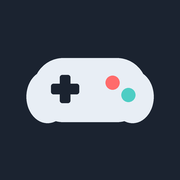
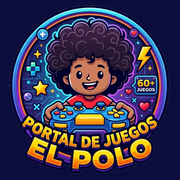
Add files via upload

diff --git a/sw.js b/sw.js
@@ -11,10 +11,10 @@
 // Subir VERSION fuerza a todos a descargar todo de nuevo y borra las copias viejas (juegos-vN).
 // Versión 180: se agregó «regadera» (Regadera: jardín circular con una regadera que gira cada 10 s; las plantas regadas salen como soldados contra arañas; por ahora solo Modo libre con 5 dificultades, Niveles y Mapa sin niveles todavía; en la zona «Juegos en desarrollo», sin imagen de tarjeta todavía).
 // Versión 179: «granjafeliz» con la pestaña «Animales» en la ventana del almacén (vender animales al 50 %, elegir cuál y cuántos); no hay archivos nuevos en la lista sin internet. Versión 178: «granjafeliz» con el almacenamiento cerrado (mejora 4 del almacén a $12,000, oso enjaulado a $100, la ventana «Enviar productos» explica por qué algo no cabe y el rótulo del camión muestra peso/capacidad); no hay archivos nuevos en la lista sin internet. Versión 177: «granjafeliz» con el almacén y el camión convertidos de las cajas de Farm Frenzy 1 a puntos (espacio en el almacén y peso en el camión por producto, caja = 30; camión 60 a 210 con los viajes de la guía de 20 a 4 s; almacén 100 a 10,000); no hay archivos nuevos en la lista sin internet (prueba-almacen-camion-granjafeliz.mjs es solo para consola). Versión 176: «granjafeliz» con tutorial guiado en los niveles 1 a 3 (flechas rojas y pasos que avanzan cuando el jugador hace lo que se pide; tutorial-granjafeliz.js entra a la lista de archivos sin internet) y se agrega a esa lista salida-granjafeliz.js (condición de derrota), que el juego ya importaba y faltaba. Versión 175: «granjafeliz» con barra de vida de 20 s en los animales (hambre a los 12 s, comen 5 s, mueren a los 20 s), huevos cada 20 s y ventana «Enviar productos» del almacén (panel-almacen-granjafeliz.js entra a la lista de archivos sin internet). Versión 174: agrega compartido/almacen.js (copias de seguridad). Versión 173: instalación más segura (si la red falla a medias NO reemplaza la copia buena anterior, descarga de 8 en 8 y avisa en consola de los archivos que no existen) y, si el servidor responde con error 5xx, usa la copia guardada.
-// Última versión: 183 = se agregó «ciudadzombi» (Ciudad Zombi: ciudad vista en 2D desde arriba de 15×15 a 100×100 manzanas con 20 000 a 100 000 ciudadanos y un límite de 150 000 mobs; por ahora solo el menú principal estándar con ♾ Modo libre —tamaño de ciudad, cantidad de ciudadanos y 5 dificultades—, Niveles y Mapa estándar sin niveles todavía, y el núcleo de los mobs en logica-ciudadzombi.js, que entra a la lista de archivos sin internet; prueba-ciudadzombi.mjs es solo para consola; en la zona «Juegos en desarrollo», sin imagen de tarjeta todavía).
+// Última versión: 184 = ícono nuevo de la app (logo «Portal de Juegos El Polo»: iconos/icono-maskable-512.png entra a la lista sin internet; manifest con nombre y colores nuevos). Antes: 183 = se agregó «ciudadzombi» (Ciudad Zombi: ciudad vista en 2D desde arriba de 15×15 a 100×100 manzanas con 20 000 a 100 000 ciudadanos y un límite de 150 000 mobs; por ahora solo el menú principal estándar con ♾ Modo libre —tamaño de ciudad, cantidad de ciudadanos y 5 dificultades—, Niveles y Mapa estándar sin niveles todavía, y el núcleo de los mobs en logica-ciudadzombi.js, que entra a la lista de archivos sin internet; prueba-ciudadzombi.mjs es solo para consola; en la zona «Juegos en desarrollo», sin imagen de tarjeta todavía).
 // Versión 182 = se agregó «explotacolores» (Explota colores: tablero de 10×15 donde se tocan grupos de 3 o más bloques del mismo color; rondas de 60 s, Modo libre con 5 dificultades; Niveles y Mapa sin niveles todavía; en la zona «Juegos en desarrollo», sin imagen de tarjeta todavía).
 // Versión 181 = «burbujas» con el menú principal estándar (♾ Modo libre con las 5 dificultades desplegables, 🪜 Niveles, 🗺 Mapa, 🚪 Salir y 👤 Iniciar sesión), mapa estándar de 22 600 niveles fijos (100 por estado y por país, reparto de dificultad estándar), «Siguiente nivel ▶» sobre el tablero y progreso unificado (burbujas_progreso_v1); las reglas pasan a logica-burbujas.js (en la lista de archivos sin internet); bot-burbujas.mjs es solo para consola. Antes: 172 = «granjafeliz»: Modo libre con dos modos (Juego original / Mod de Polo), pantalla de ajustes (dificultad, tamaño de granja, dinero de pruebas) y escena con 3 tamaños; escena-granjafeliz.js entra a la lista de archivos sin internet. 171 = se agregó «granjafeliz» (Granja feliz, estilo Farm Frenzy, solo horizontal: menú principal estándar con ♾ Modo libre de 5 dificultades por construir, Niveles y Mapa estándar de 22 600 niveles; solo existe el nivel 1 con gallinas y huevos; estrellas por tiempo y monedas de 15 a 45; datos-granjafeliz.js y economia-granjafeliz.js en la lista de archivos sin internet; en la zona «Juegos en desarrollo», sin imagen de tarjeta todavía). Antes: 170 = se agregó «billar» (Billar: por ahora solo el menú principal estándar con ♾ Modo libre de 5 dificultades, Niveles y Mapa estándar de 22 600 niveles por crear, y el sistema de estrellas —1 a 3 por nivel— y monedas —15, 30 o 45 por nivel, solo se paga la mejora—; economia-billar.js en la lista de archivos sin internet; en la zona «Juegos en desarrollo», sin imagen de tarjeta todavía). Antes: 169 = «slither» con sus 22 600 niveles (100 por estado de México y por país; bots Fácil/Normal/Difícil y 3 tamaños de mapa repartidos 50/40/10 % al inicio hasta 25/35/40 % al final; metas siempre de puntos calibradas para que todos se puedan pasar; niveles-slither.js en la lista de archivos sin internet; verificar-slither.mjs y package.json son solo para consola). Antes: 168 = «polocubos» con tablero inicial en patrones (peines con pasillos de cuadros a una pared de cerrarse, comprobados con un bot de backtracking), premios por cerrar cuadros con 1, 2 o 3 paredes, cubos aleatorios, 15 líneas iniciales y la primera tanda automática de 50 cubos (patrones-polocubos.js y solver-polocubos.js en la lista de archivos sin internet). Antes: 167 = se agregó «polocubos» (cuadritos de libreta: Modo libre solo o contra un bot, hojas de 12×12 a 500×500, 100 a 500 puntos iniciales, y mapa estándar de 22 600 niveles por crear; logica-polocubos.js e ia-polocubos.js en la lista de archivos sin internet; en la zona «Juegos en desarrollo», sin imagen de tarjeta todavía). Antes: 166 = «serpiente» con los 7 tipos de nivel y su reparto (tipos-nivel-serpiente.js en la lista de archivos sin internet; solo bases, todavía sin niveles). Antes: 165 = nuevo «compartido/dificultad-niveles.js» (reparto estándar de dificultad de los niveles del mapa: 50/40/10 % al principio y 25/40/35 % al final, progresivo; sección 8 de ESTANDARES-juegos.md). Antes: 164 = se agregó «serpiente» (Snake: por ahora solo el menú principal estándar con ♾ Partida libre de 5 dificultades y tableros de 6×10 a 16×20, Niveles y Mapa estándar de 22 600 niveles por crear; en la zona «Juegos en desarrollo», sin imagen de tarjeta todavía). Antes: 163 = se reunieron los cambios de varias líneas: vuelven «atasco» y «conectar» (que se habían perdido), «buscapalabras» suma economia-buscapalabras.js, y siguen «torrepasteles» y «batallanaval» (con logica.js). Antes: 162 = «batallanaval» con estrellas (★ ganar, ★★ y ★★★ por precisión y flota conservada) y monedas por nivel, boosts (🔍 revelar ubicación 100, 🛡 doble defensa 100, 👁 revelar todo 1 000) con escudos que el bot reconoce y reataca, y el 25 % exacto de los 22 600 niveles con escudos del bot (logica-batallanaval.js); progreso sincronizado con la cuenta. Antes: 161 = se agregó «batallanaval» (Batalla naval: por ahora solo el menú principal con ♾ Partida libre de 5 dificultades y tableros de 15×15 a 50×50 sin límite de tiradas ni de tiempo, y mapa estándar de 22 600 niveles por crear; compartido/mapa-niveles.js con la opción botonesAntes; en la zona «Juegos en desarrollo», sin imagen de tarjeta todavía). Antes: 160 = se agregó «torrepasteles» (Torre de pasteles, estilo apilar pasteles de Talking Angela: menú principal con Partida libre de 5 dificultades y mapa estándar de 22 600 niveles por crear, y sistema de estrellas —3 doradas y 3 moradas ocultas—, monedas —15 a 40, una sola vez por nivel— y boosts; logica-torrepasteles.js en la lista de archivos sin internet; en la zona «Juegos en desarrollo», sin imagen de tarjeta todavía; se saltan 158 y 159 porque esos números ya se usaron en otras copias del archivo). Antes (otra línea de cambios): 158 = se agregó «conectar» (Conecta los puntos: por ahora solo el menú principal con Partida libre de 5 dificultades y tableros de 5×5 a 10×10, Niveles sin niveles todavía y Mapa estándar de 22 600 niveles por crear; en la zona «Juegos en desarrollo», sin imagen de tarjeta todavía). Antes: 157 = se agregó «atasco» (carro rojo que debe salir de un estacionamiento lleno de carros grises; por ahora solo el menú principal con Modo libre: 5 dificultades y tableros de 4×4 a 13×13; en la zona «Juegos en desarrollo», sin imagen de tarjeta todavía). Antes: 157 = «buscapalabras» con menú principal (mapa de México y mundo, 22 600 niveles) y partida libre (5 dificultades, tableros de 8×8 a 20×20); «compartido/mapa-niveles.js» ahora admite botonesAntes. Antes: 156 = «ataqueglobal» con menú circular al tocar un país propio (expandir, misil nivel 1, investigar) y botones de ataque (apuntar, disparar, destruir). Antes: 155 = «slither» con menú principal estándar (mapa de México con agua y mundo, 22 600 niveles por crear: 100 por estado y por país; botón ♾ Juego libre con el modo de siempre) y bolitas doradas raras que valen 10 veces más; 154 = se agregó «naves» (enemigos en manada y oleadas contra una nave que dispara sola: mapa de México con 320 niveles comprobados con bots de backtracking, 50 tiers de enemigos y 50 armas en el Taller; en la zona «Juegos en desarrollo», sin imagen de tarjeta todavía); 153 = se agregó «spider» (Solitario Spider: 5 dificultades, modo libre, mapa de México y mundo y 5 niveles Fáciles comprobados con un bot de backtracking; en la zona «Juegos en desarrollo», sin imagen de tarjeta todavía); 152 = se agregaron «lanzapajaros», «ranagolosa», «dos», «flechas», «navepixeles» y «ataqueglobal» (los seis en la zona «Juegos en desarrollo», sin imagen de tarjeta todavía); 151 = «piano» pasa a la zona «Juegos» (terminado): menú principal con «Niveles» (mapa estándar, 30 niveles por estado y por país, todavía sin niveles) y «Canciones» (con favoritas ⭐ junto a «Con MIDI» y «Sin MIDI»), sin límite de tiempo con récords a 1, 2 y 3 minutos por canción, canciones agudas una octava más graves, y melodias-piano.js y niveles-piano.js en la lista de archivos sin internet; 150 = se agregó «saltanubes» (sube saltando por filas de 4 y 5 plataformas: tierra y nubes, monedas, cohete de la tienda y monstruos), «rubik» y «slither» pasan a verse en el portal (juegos.js), y «estacionamiento» cambia a vista 2D desde arriba; 149 = «piano» con sonido ligero (1 oscilador por nota, sin reverberación, máximo 4 notas a la vez) y audio desbloqueado con el primer toque (arregla el sonido que se saturaba o se perdía en celulares modestos); 148 = «gominolas» con el mapa de niveles estándar (compartido/mapa-niveles.js: 100 niveles por estado de México y por país, 22 600 en total), «🎮 Juegos» + «☰ Pausa» y fondo de madera; 147 = se agregó «slither» (serpientes estilo Slither.io, con bots, turbo y comida al morir); 146 = «agario» pasa a la zona «Juegos» (cuarto juego terminado); 145 = «agario» con bolas azules brillantes (sueltan 200 puntitos), portales de un solo uso a un punto seguro del mapa, bots que persiguen menos tiempo y se dividen para alcanzar presas chicas; 144 = «supervivencia» con mapa de 35×35 y recursos (piedras, fibra, bayas, árboles con hacha, vultos con pico); 143 = «buscaminas» pasa a la zona «Juegos» (tercer juego terminado), con zoom en tableros grandes y 100 niveles distintos por estado y país; 142 = «supervivencia» nuevo (mapa isométrico de 50×50 con piso, árboles y personaje que camina); 141 = «supermercado» con modo niveles (botón «Niveles» → mapa estándar, 10 niveles por estado y por país; ya está el nivel 1 en niveles-supermercado.js); 140 = «supermercado» con accesos gratis al patio (🚪 en la computadora, pestaña 🛠) entre las estanterías de cada ampliación; 139 = «supermercado» con la computadora de mejoras en 4 pestañas (personales con velocidad al caminar, empleados con su emoji de trabajador y producto, estanterías con 5 niveles de +5 espacios, y lo demás); 138 = «supermercado» con menú de inicio (Nueva partida / Continuar / Niveles) y 10 partidas guardadas en el aparato (autoguardado, ☰ Pausa → 💾 Guardar); 137 = «supermercado» con la mesa de la computadora pegada al muro de la izquierda y un bote de basura que pregunta si tiras lo que cargas; 136 = «supermercado»: los empleados que llevan varios productos sueltan todo antes de volver por más; 135 = «supermercado» con la computadora de mejoras sobre un escritorio, botones cuadrados tipo aplicación y ℹ Info en ☰ Pausa; 134 = «supermercado» en vista isométrica con calle alrededor, granja (huevo, leche, pollo, res y tocino), botón ⏩ de velocidad (x1 a x8), «🎮 Juegos» y «☰ Pausa» estándar, chip de monedas dorado y fondo de madera clara/oscura; 133 = «paperio» con los niveles de los estados jugables (progreso en orden, bonos que se abren al pasar el nivel), «🎮 Juegos» y «☰ Pausa» estándar, chip de monedas dorado; mapa.js ahora es paperio-mapa.js; 132 = «zuma» con el mapa de niveles estándar (México con agua, un estado de 10 niveles; compartido/mapa-niveles.js, etapas-mapa.js y geografia-mapa.js), botón «🎮 Juegos» azul oscuro y chip de monedas dorado; 131 = «rubik» ahora con cubos de 2×2 hasta 10×10; botón «🎮 Juegos» azul oscuro alargado y chip de monedas estándar en compartido/inmersivo.css (rubik y estacionamiento); 130 = se agregó «rubik» (Cubo de Rubik: 2×2, 3×3 y 4×4, con mezcla, deshacer, cronómetro y mejor tiempo por tamaño); 129 = «estacionamiento» con 22 600 niveles, mapa de México con agua y mundo, monedas y boosts (niveles, etapas, geografia y mapa); 128 = «zuma» con 100 formas de banda para el modo Infinito (formas-zuma.js; se abren al pasar la ronda 1 de cada nivel), fondo de madera clara/oscura con botón 🌙/☀ y especificación de botones fijos en compartido/inmersivo.css; 127 = «bloques» con 30 niveles fijos (21 a 30: puntos y candados simples); 126 = imagen de tarjeta de «deslizante» (imagenes/deslizante.webp); 125 = «deslizante» pasa a la zona «Juegos» (terminado, primero de la lista) con botones cuadrados en el inicio y en la navegación; 124 = fondo de madera (clara y oscura) estándar en el modo inmersivo con botón 🌙/☀ para alternarlas (compartido/fondo-madera.js e imagenes/fondomadera*.webp), estrenado en «deslizante»; 123 = menú de pausa estándar (compartido/menu-pausa.js + estilos en inmersivo.css) y «deslizante» con «☰ Pausa» (Continuar / Guardar progreso de este nivel y salir / Salir) y partidas guardadas por nivel; 122 = «deslizante» con estrellas (doradas y moradas) y monedas por nivel en los 3×3; 121 = «deslizante» con el modo libre como primer botón del menú (luego Continuar y Niveles) y botones ◀ ▶ para ir al nivel anterior/siguiente dentro de un nivel; 120 = «deslizante» con cronómetro en décimas, mejor tiempo por nivel y botones de nivel cuadrados con su mejor tiempo; 119 = «deslizante» con modo libre (tableros al azar sin fin; cada tamaño se abre al desbloquear su etapa); 118 = «deslizante» con los 280 niveles (hasta 30×30); 117 = «deslizante» con los niveles del 11×11 al 20×20; 116 = «deslizante» con los niveles del 5×5 al 10×10; 115 = «deslizante» con los 10 niveles del 4×4; 114 = «deslizante» con menú de inicio (Jugar / Niveles), niveles fijos que se desbloquean en orden (por ahora los 10 del 3×3) y botones «🎮 Juegos» y «☰ Menú principal»; todos los juegos pasan a «Juegos en desarrollo»; 113 = «imperio» con castillo en ruinas (piedras, vigas y andamio) y refugio en forma de cabaña de troncos, mapa de 98×98 (5 veces el área anterior), 75 minas de 500 (10 % oro, 20 % plata, 30 % cobre, 40 % carbón) bien separadas y sin animales hostiles a menos de 15 casillas de donde empiezas (las partidas viejas de 44×44 se siguen abriendo); 112 = «imperio» con refugio (aquí se crean las tropas), barra de 8 recursos, 250 monedas iniciales y README-imperio.md; 111 = «imperio»: el botón ☰ abre un menú de pausa (Continuar / Salir); 110 = «imperio» con botón «🎮 Juegos» y «☰ Menú principal» arriba a la izquierda (estándar en compartido/inmersivo.css), botones cuadrados con figuras de hombres y personaje dibujado como aldeano; 109 = «bloques» con pantalla de inicio «Polo Blocks», 3 dificultades en el infinito y niveles fijos (niveles-bloques.js); 108 = se agregó «bloques» (Bloques de madera, estilo Wood Block Puzzle); 107 = se agregó «fate» (Aldea y Mazmorra, RPG de pueblo y mazmorra); 106 = «defendercastillo»: se corrigió un paréntesis de más que impedía abrirlo y el service worker ahora guarda infinito-defendercastillo.js y mapas-desbloqueados-defendercastillo.js (los usa el juego) y ya no niveles-defendercastillo.js (no se usa); 105 = se agregó «flappybird» (Aleteo, estilo Flappy); 104 = se agregó «pasteles» (Pasteles en la banda); 103 = «defendercastillo» con meteoro de pago, 10 oleadas, cañón desde el nivel 2, jefes únicos más vencibles y su imagen de tarjeta; 102 = «defendercastillo» con 12 oleadas por mapa (antes 20 a 40) y dificultad recalibrada, y billete verde dibujado en lugar del emoji 💵; 101 = «defendercastillo» con billetes 💵 en lugar de monedas, el botón de dinero 25 % más grande y 👹 en lugar de la ola; 100 = «defendercastillo» con el texto de ayuda fuera del mapa (en vertical sobre el dock, en horizontal en un panel a la derecha) y, en celulares, sin la ayuda 5 s después de iniciar la primera oleada; 99 = «defendercastillo» con marcadores (monedas, vida, oleada) en botones 3D cuadrados pegados al mapa y emoji de monedas 💰 (el 🪙 no se veía en algunos equipos); 98 = «compartido/progreso.js»: un envío de puntos rechazado por el servidor ya no bloquea la cola; 97 = «jetpack» con puntos pendientes y récord sincronizado con la cuenta, «rompeladrillos» con el audio despertado en iPhone y sin avisos tardíos del perfil, «fusionanumeros» guarda el mejor puntaje al salir a medias; 96 = «zuma» con puntos pendientes y progreso (estrellas, récords, monedas, boosts) sincronizado con la cuenta; 95 = «solitario» y «rompeladrillos» con puntos pendientes y progreso/récords sincronizados con la cuenta (y ya no dependen de Firebase para abrir); 94 = «pradera», «restaurantes» y «rompecabezas» con puntos pendientes («pradera»: récord sincronizado; «restaurantes»: 6 partidas y récord sincronizados con la cuenta); 93 = «plantasvszombies» con puntos pendientes y progreso/récords sincronizados con la cuenta (gana el mayor de cada dato); 92 = «pequenos-puzles» y «piano» con puntos pendientes y progreso sincronizado con la cuenta, «minas» con puntos pendientes y partida compacta sincronizada (gana la copia cuyo progreso cambió más tarde), «paperio» con puntos pendientes y nivel/récord/monedas/boosts sincronizados, «pixelart» con puntos pendientes; 91 = «rana» con puntos pendientes y nivel desbloqueado sincronizado con la cuenta (gana el nivel más alto); 90 = «pantano» con puntos pendientes y progreso (monedas, mejoras, armas, niveles y récord) sincronizado con la cuenta; 89 = «guerrerodepuntos», «hoyo» e «imperio» con puntos pendientes (e «imperio» con partidas sincronizadas con la cuenta); 88 = «isla» con puntos pendientes y partida sincronizada con la cuenta (gana la isla más reciente); 87 = «dulces», «deslizante» y «doodle» con puntos pendientes y progreso/récords sincronizados con la cuenta; 86 = «estacionamiento» y «fichas» con puntos pendientes y progreso sincronizados con la cuenta; 85 = «cavar», «corredor» y «defendercastillo» con puntos pendientes y progreso sincronizados con la cuenta (y «corredor» ya no depende de Firebase para abrir); 84 = «burbujas», «buscaminas» y «cadenanumeros» con puntos pendientes y récords sincronizados con la cuenta (y «buscaminas» ya no depende de Firebase para abrir); 83 = «2048», «agario» y «ajedrez» con puntos pendientes y progreso sincronizados con la cuenta (y «ajedrez» ya no depende de Firebase para abrir); 82 = progreso y puntos pendientes que se sincronizan con la cuenta al haber internet (compartido/progreso.js y cola-puntos.js) en «botellascolores» y «pelota»; 81 = «defendercastillo» con 100 niveles de Michoacán (generador y calibración), 15 enemigos y 10 torres; 80 = «estacionamiento» conserva la vista al cambiar de tamaño y avisa de puntos solo si se guardaron, «fichas» con el aviso de puntos corregido, «ejemplo» con el blanco fuera del botón ⛶; 79 = «dulces» sin esperas al guardar puntos, sin trabarse si falla una animación y con el tablero completo en horizontal; 78 = «defendercastillo» sin confirm() y con marcadores en columna en horizontal, «deslizante» sin tapar el tablero con el ⛶, «doodle» con la pantalla de inicio desplazable; 77 = «cadenanumeros» con tablero más grande en horizontal y «corredor» con la pantalla de inicio desplazable; 76 = «botellascolores» con mesa ancha en horizontal y espacio libre para el ⛶, «burbujas» con pantallas que se desplazan; 75 = «2048» con diseño en horizontal y «agario» con pantallas que se desplazan y ← siempre visible; 74 = «solitario»: marcadores en 2 filas en celulares angostos y mesa más grande en horizontal; 73 = manifest con orientación libre ("any"); 72 = «cadenanumeros» con el marco en proporción 3:4; 71 = modo inmersivo en «solitario», «rompeladrillos», «rompecabezas», «imperio» y «ejemplo»; 70 = portal sin fondo ni borde en la cabecera y con botón de pantalla completa; 69 = modo inmersivo en «supermercado»; 68 = modo inmersivo en «restaurantes»; 67 = modo inmersivo en «plantasvszombies», «pradera» y «rana»; 66 = modo inmersivo en «piano», «pequenos-puzles» y «pixelart»; 65 = modo inmersivo en «pelota»; 64 = modo inmersivo en «paperio»; 63 = modo inmersivo en «isla», «minas», «jetpack» y «ladrillosnumerados»; 62 = modo inmersivo en «pantano»; 61 = modo inmersivo en «fusionanumeros», «globos», «gominolas», «guerrerodepuntos» y «hoyo»; 60 = modo inmersivo en «fichas»; 59 = modo inmersivo en «estacionamiento»; 58 = modo inmersivo en «corredor», «defendercastillo», «dulces», «deslizante» y «doodle»; 57 = modo inmersivo en «cavar»; 56 = modo inmersivo (pantalla completa, botones 3D, sin azul) en «2048», «agario», «ajedrez», «botellascolores» y «burbujas»; paleta neutra en estilos.css; 55 = modo inmersivo (compartido/inmersivo.css, botones 3D y pantalla completa en PC y Android) en «zuma»; 54 = «zuma»: si te quedas con pocas bolas la cadena sale rápido hasta mostrar tu color; 53 = «zuma» con 10 niveles fijos (generados y comprobados con bots) y más fáciles; 52 = se agregó «zuma» (nivel de prueba); 51 = «botellascolores» con los 3200 niveles de los 32 estados; 50 = «botellascolores» con 2200 niveles (22 estados); 49 = «botellascolores» con mapa (mundo → México → estado, 12 etapas con niveles y 20 por venir); 48 = «botellascolores» con 1200 niveles (12 mundos × 100) y progreso reiniciado; 47 = se agregó «fichas» (Fichas de frutas); 46 = «imperio» sin oleadas y con personaje, inventario y cajones; 45 = «imperio» con menú, partidas guardadas, biomas y animales; 44 = se agregó «imperio»; 43 = el solitario guarda también sus hojas de estilo (estilos-solitario.css, mesa-solitario.css), niveles y victoria; 42 = todos los archivos se llaman «tipo-carpeta» (index-ajedrez.html, juego-ajedrez.js…); 41 = se agregaron «2048» y «ajedrez».
-const VERSION = 183;
+const VERSION = 184;
 const CACHE = "juegos-v" + VERSION;
 const ESPERA_RED = 3000;
 
@@ -99,7 +99,7 @@ const JUEGOS = {
 
 const ARCHIVOS = [
   "./", "index.html", "juegos.js", "manifest.webmanifest",
-  "iconos/icono-180.png", "iconos/icono-192.png", "iconos/icono-512.png",
+  "iconos/icono-180.png", "iconos/icono-192.png", "iconos/icono-512.png", "iconos/icono-maskable-512.png",
   "compartido/estilos.css", "compartido/inmersivo.css", "imagenes/agario.webp", "imagenes/gominolas.webp", "imagenes/restaurante.webp", "imagenes/rompecabezas.webp", "imagenes/pradera.webp", "imagenes/ajedrez.webp", "imagenes/solitario.webp", "imagenes/botellascolores.webp", "imagenes/buscaminas.webp", "imagenes/corredor.webp", "imagenes/pantano.webp", "imagenes/piano.webp", "imagenes/saltarin.webp", "imagenes/dulces.webp", "imagenes/defendercastillo.webp", "imagenes/deslizante.webp", "compartido/firebase.js", "compartido/jugador.js", "compartido/configs.js", "compartido/pantalla-completa.js", "compartido/progreso.js", "compartido/cola-puntos.js", "compartido/menu-pausa.js", "compartido/fondo-madera.js", "compartido/almacen.js", "compartido/mapa-niveles.js", "compartido/etapas-mapa.js", "compartido/geografia-mapa.js", "compartido/dificultad-niveles.js", "imagenes/fondomaderaclara.webp", "imagenes/fondomaderaoscura.webp",
 ];
 for (const [carpeta, extra] of Object.entries(JUEGOS)) {
